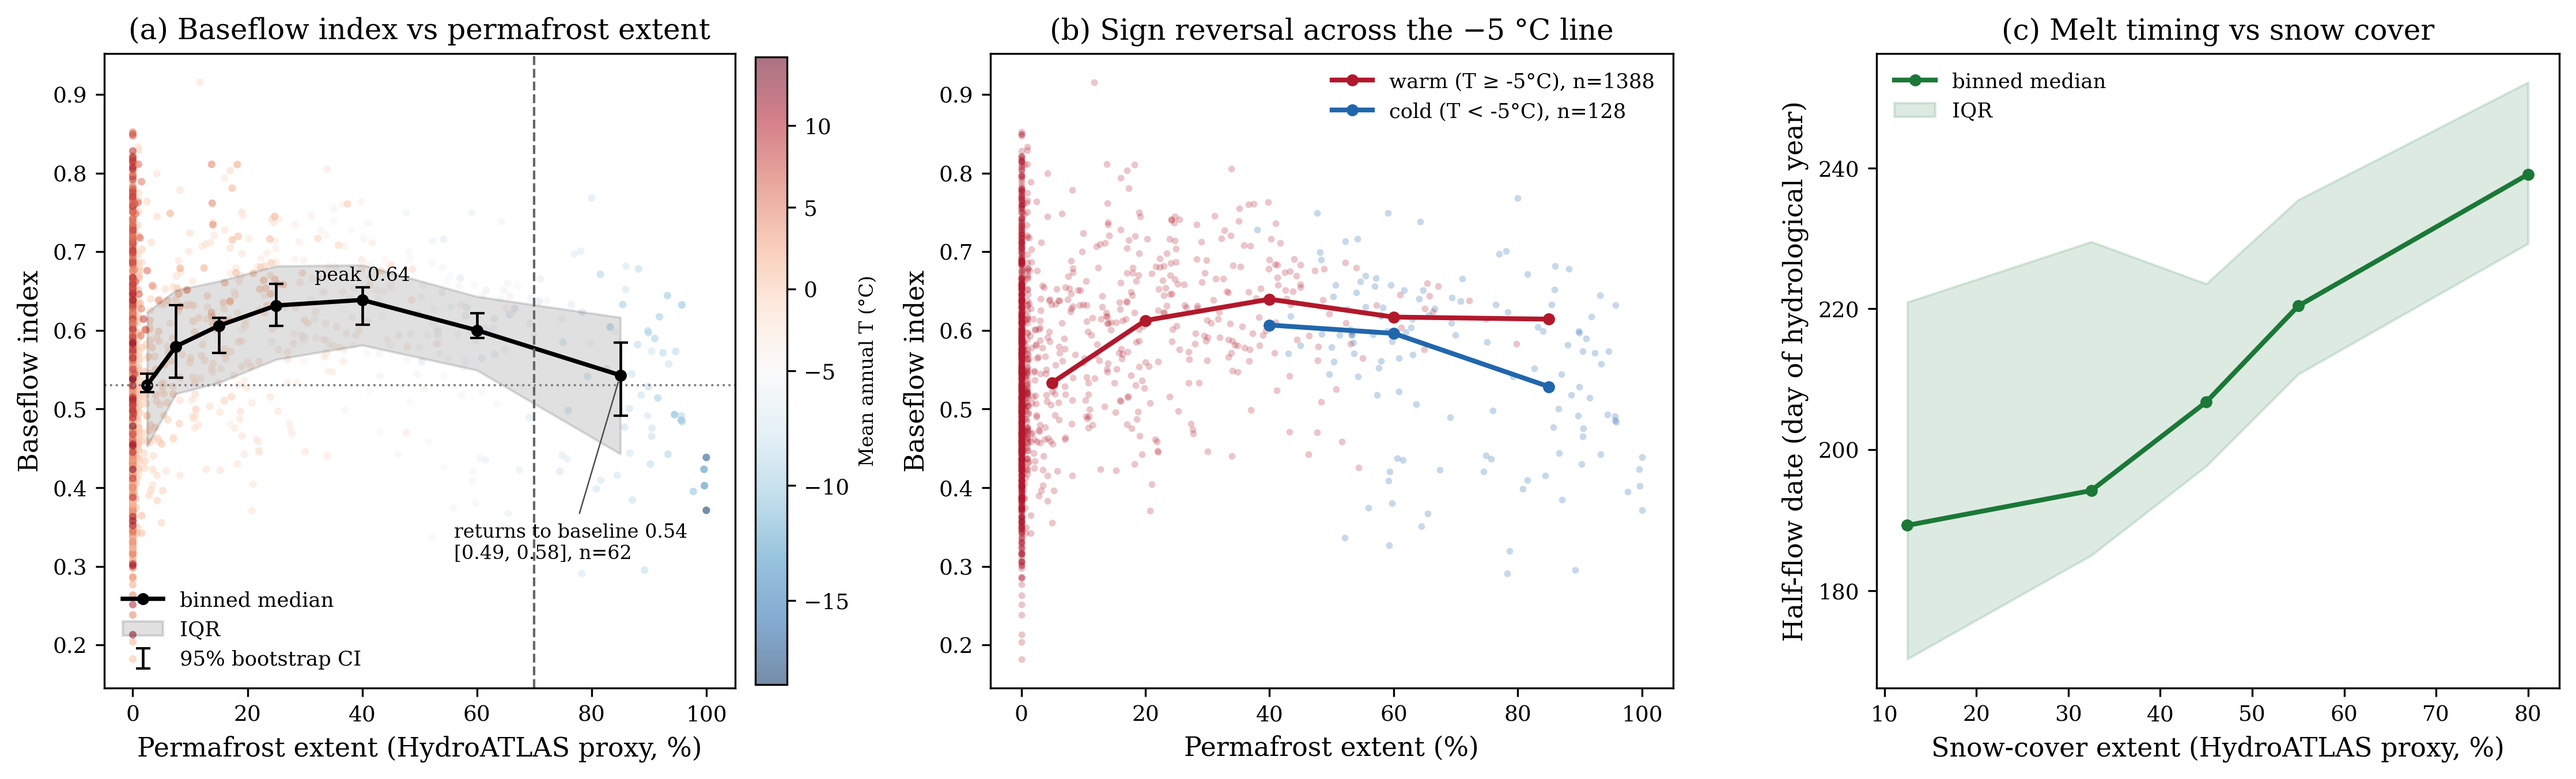
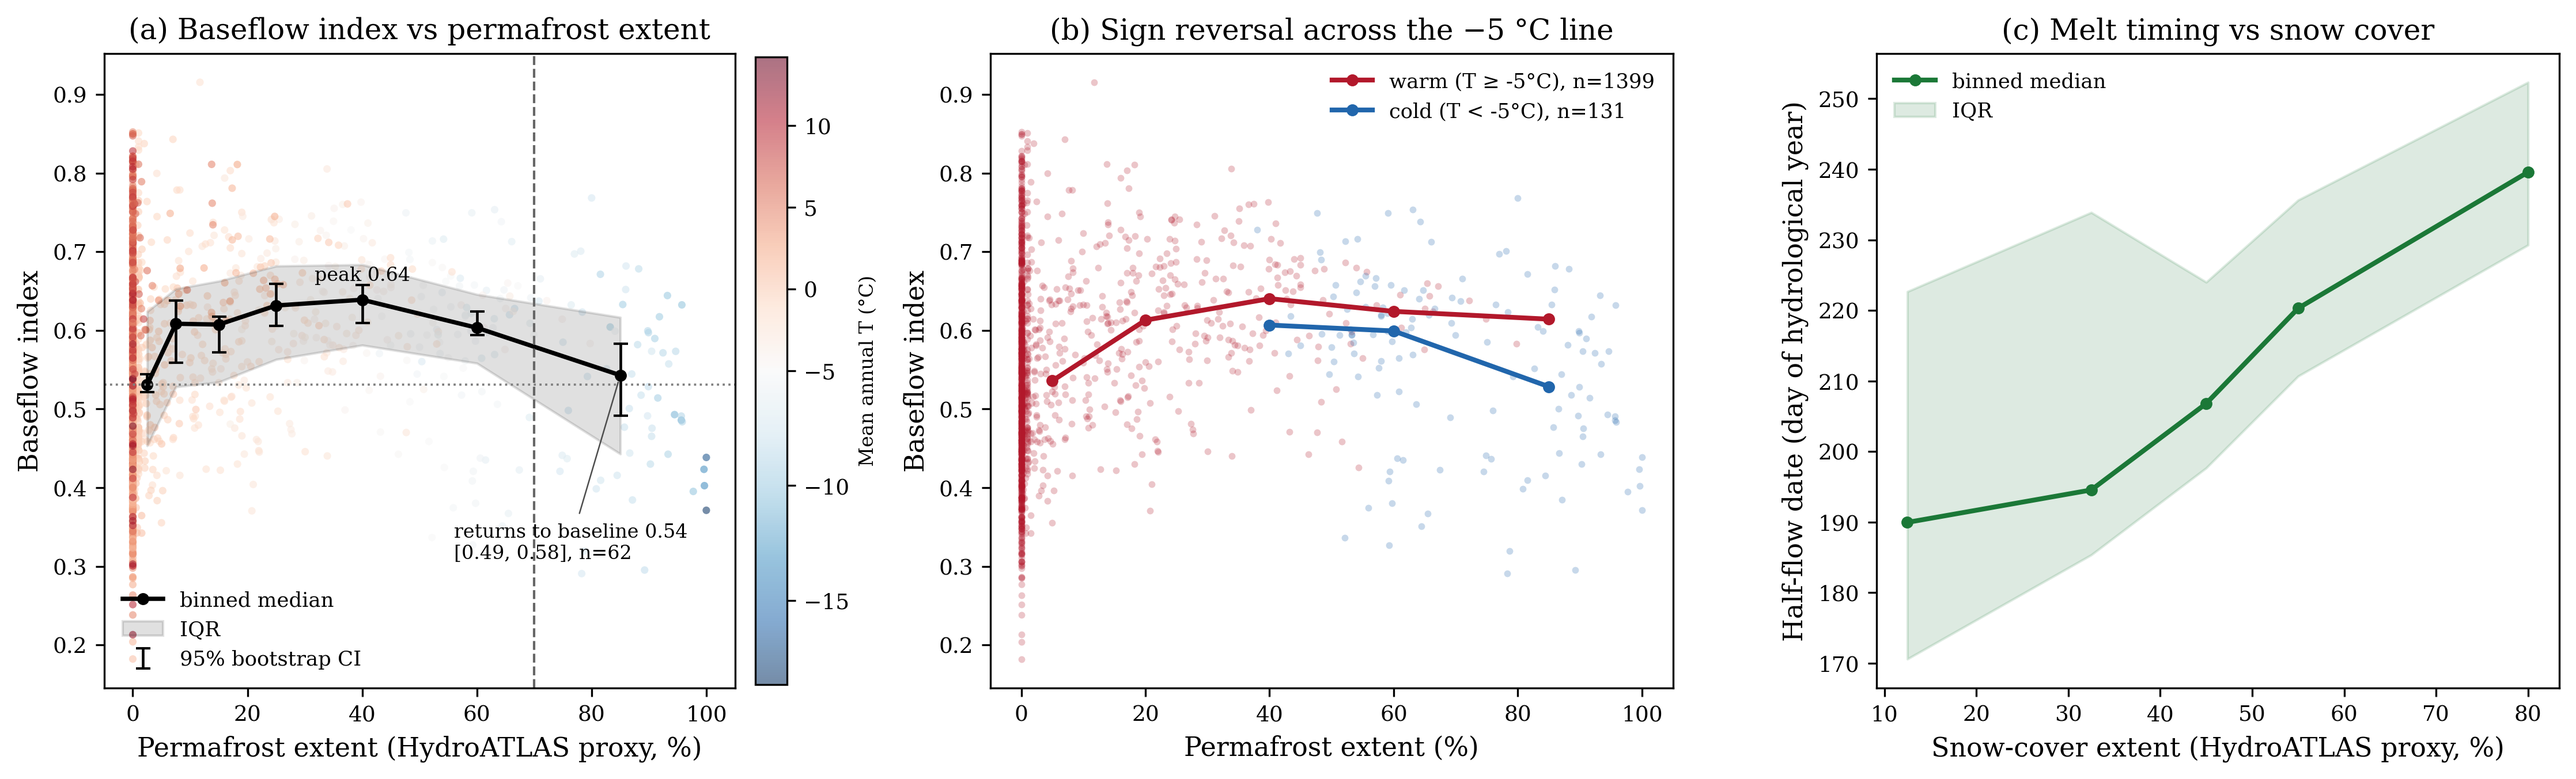
feat(quality): ice-period constant runs, worse-grade tie-break, specific-discharge anomaly flag
- anomaly_detection: constant_value skips runs ≥ 80 % inside Nov–Apr (Roshydromet
  under-ice convention); regression test tests/test_ice_constant_runs.py
- quality_grader: mode ties resolve to the worse grade; unreachable B cap removed
- create_year_grades: overall grade read from the grading output, not re-derived
- package_dataset: per-gauge specific_discharge_anomaly in discharge.nc
  (median discharge_mm > 20 mm/d); forcing attrs point to Sect. 6.3
- verify_macros: locks for the anomaly flag, its signature overlap, blank
  interior years, winter-gap counts and per-grade shares, mean/median area;
  kv() coerces numpy bools so tolerance checks can actually fail
- Regraded release: A 936 / B 807 / C 130 / D 178 / F 14; docs updated;
  cold-region provenance CSVs and Figs 2/7 regenerated; manuscript e9ded06

Claude-Session: https://claude.ai/code/session_014DevrVqKDBa378SqMM5r8k

diff --git a/scripts/verify_macros.py b/scripts/verify_macros.py
@@ -64,6 +64,7 @@ _FAILURES: list[str] = []
 
 def kv(label: str, paper: str, actual: str, match: bool | None = None) -> None:
     """Print a labelled paper-versus-data comparison row; record drifts for the exit code."""
+    match = None if match is None else bool(match)  # numpy bools would dodge the `is False` test
     mark = "OK " if match else ("DRIFT" if match is False else "  ? ")
     print(f"[{mark}] {label:40s}  paper={paper:25s}  actual={actual}")
     if match is False:
@@ -162,6 +163,35 @@ def check_coldregion_macros(macros: dict[str, str]) -> None:
         )
 
 
+def check_winter_gap_macros(
+    macros: dict[str, str], gauge_summary: pd.DataFrame, gap: pd.Series, severe: pd.Series
+) -> None:
+    """Lock the Sect. 4.1.1 winter-gap counts and their per-grade shares."""
+    check_macro(macros, "nwintergap", float(gap.sum()), "{:.0f}")
+    check_macro(macros, "nwintergapsevere", float(severe.sum()), "{:.0f}")
+    grade_of = gauge_summary.set_index(gauge_summary["gauge_id"].astype(str))["overall_grade"]
+    gap_grades = grade_of.reindex(gap.index[gap]).value_counts()
+    for g in ["A", "B", "C", "D", "F"]:
+        share = 100.0 * gap_grades.get(g, 0) / (grade_of == g).sum()
+        check_macro(macros, f"wintergappct{g}", share, "{:.0f}")
+
+
+def blank_interior_years(year_grades: pd.DataFrame) -> tuple[int, int]:
+    """Count unassessed hydro-years between the first and last graded year of each gauge."""
+    grid = year_grades.set_index(year_grades.columns[0]).notna().to_numpy()
+    n_blank = 0
+    n_gauges = 0
+    for mask in grid:
+        idx = np.flatnonzero(mask)
+        if len(idx) == 0:
+            continue
+        inner = ~mask[idx[0] : idx[-1] + 1]
+        if inner.any():
+            n_blank += int(inner.sum())
+            n_gauges += 1
+    return n_blank, n_gauges
+
+
 def check_discharge_fill_macros(macros: dict[str, str]) -> None:
     """Lock the discharge gap-fill macros against quality_flag==1 in discharge.nc."""
     section("DISCHARGE GAP-FILL (quality_flag in camels_ru_discharge.nc)")
@@ -218,7 +248,15 @@ def main() -> None:
         q_coord = "gauge_id" if "gauge_id" in qds.coords else "gauge"
         q_ids = qds[q_coord].values.astype(str)
         q_obs_days = pd.Series(q_present.sum(dim="time").values, index=q_ids)
+        q_anomaly_ids = set(q_ids[qds["specific_discharge_anomaly"].values == 1])
+        n_q_anomaly = len(q_anomaly_ids)
+        q_months = pd.DatetimeIndex(qds["time"].values).month
+        q_summer = q_present.values[:, q_months.isin([6, 7, 8, 9])].mean(axis=1)
+        q_winter = q_present.values[:, q_months.isin([12, 1, 2, 3])].mean(axis=1)
     n_ungraded = n_with_data - n_graded
+    # Winter-gap gauges (Sect. 4.1.1): summer coverage > 80 % but under half of Dec-Mar days
+    winter_gap = pd.Series((q_summer > 0.8) & (q_winter < 0.5), index=q_ids)
+    winter_gap_severe = winter_gap & pd.Series(q_winter < 0.2, index=q_ids)
 
     with xr.open_dataset(RELEASE / "camels_ru_water_level.nc") as wds:
         wl_has_data = (~np.isnan(wds["water_level_cm"])).any(dim="time")
@@ -259,6 +297,12 @@ def main() -> None:
     )
     check_macro(macros, "ngraded", float(n_graded), "{:.0f}")
     check_macro(macros, "nungraded", float(n_ungraded), "{:.0f}")
+    check_macro(macros, "nqanomalygauges", float(n_q_anomaly), "{:.0f}")
+    sig_anomaly_ids = set(sigs.loc[sigs["is_anomalous"].astype(bool), "gauge_id"].astype(str))
+    check_macro(macros, "nqanomalyinsig", float(len(q_anomaly_ids & sig_anomaly_ids)), "{:.0f}")
+    n_blank, n_blank_gauges = blank_interior_years(year_grades)
+    check_macro(macros, "nblankyears", float(n_blank), "{:.0f}")
+    check_macro(macros, "nblankyeargauges", float(n_blank_gauges), "{:.0f}")
     # year_grades.csv must list exactly the graded gauges of gauge_summary.csv.
     check_macro(macros, "ngraded", float(n_year_grades), "{:.0f}")
 
@@ -338,6 +382,7 @@ def main() -> None:
         check_macro(macros, f"ngrade{g}", float((gauge_summary["overall_grade"] == g).sum()), "{:.0f}")
     n_decent = int(gauge_summary["overall_grade"].isin(["A", "B", "C"]).sum())
     check_macro(macros, "decentpct", 100.0 * n_decent / n_with_data, "{:.0f}")
+    check_winter_gap_macros(macros, gauge_summary, winter_gap, winter_gap_severe)
 
     section("CATCHMENT AREA STATISTICS (boundaries.gpkg area_km2)")
     areas = boundaries["area_km2"].dropna()
@@ -348,8 +393,8 @@ def main() -> None:
         f"{areas.max():,.0f}",
         match=abs(areas.max() - 2_670_000) < 500,
     )
-    kv("meanarea", "78,217", f"{areas.mean():,.0f}", match=abs(areas.mean() - 78217) < 5)
-    kv("medianarea", "2,817", f"{areas.median():,.0f}", match=abs(areas.median() - 2817) < 5)
+    check_macro(parse_macros(), "meanarea", float(areas.mean()), "{:.0f}")
+    check_macro(parse_macros(), "medianarea", float(areas.median()), "{:.0f}")
     analysis_areas = boundaries.loc[
         boundaries["gauge_id"].astype(str).str.len() != 7, "area_km2"
     ].dropna()

diff --git a/scripts/package_dataset.py b/scripts/package_dataset.py
@@ -17,6 +17,7 @@ from __future__ import annotations
 import json
 from pathlib import Path
 import shutil
+import warnings
 
 import geopandas as gpd
 import numpy as np
@@ -88,6 +89,19 @@ def package_boundaries() -> None:
     ws = ws[[c for c in keep_cols if c in ws.columns]]
     ws.to_file(dst, driver="GPKG")
     print(f"  {len(ws)} catchments -> {dst.name}")
+
+
+ANOMALY_MM_PER_DAY = 20.0  # same threshold as is_anomalous in the signature file
+
+
+def _specific_discharge_anomaly(q_mm: np.ndarray) -> np.ndarray:
+    """Per-gauge flag: 1 if the median runoff depth exceeds ANOMALY_MM_PER_DAY, -1 if no record."""
+    with warnings.catch_warnings():
+        warnings.simplefilter("ignore", RuntimeWarning)  # all-NaN rows
+        median = np.nanmedian(q_mm, axis=1)
+    flag = np.where(median > ANOMALY_MM_PER_DAY, 1, 0).astype(np.int8)
+    flag[np.isnan(median)] = -1
+    return flag
 
 
 def _discharge_quality_flags(present: np.ndarray, filled: np.ndarray) -> np.ndarray:
@@ -203,6 +217,8 @@ def package_discharge() -> None:
     filled[edge] = False
     print(f"  reverted {int(edge.sum()):,} gap-filled gauge-days that did not bridge observed days")
     q_flag = _discharge_quality_flags(present, filled)
+    anomaly = _specific_discharge_anomaly(q_mm)
+    print(f"  {int((anomaly == 1).sum())} gauges flagged specific_discharge_anomaly")
 
     ds = xr.Dataset(
         {
@@ -225,6 +241,23 @@ def package_discharge() -> None:
                     "standard_name": "water_volume_transport_in_river_channel",
                     "units": "m3 s-1",
                     "source": "AIS GMVO / Roshydromet",
+                },
+            ),
+            "specific_discharge_anomaly": (
+                ["gauge_id"],
+                anomaly,
+                {
+                    "long_name": "Implausible specific discharge flag",
+                    "flag_values": np.array([-1, 0, 1], dtype=np.int8),
+                    "flag_meanings": "no_discharge_record plausible implausible",
+                    "description": (
+                        f"1 = median discharge_mm exceeds {ANOMALY_MM_PER_DAY:g} mm d-1 over the "
+                        "record, i.e. the reported volume cannot come from the delineated area: "
+                        "delta distributaries, small experimental creeks whose source values "
+                        "appear to be in litres per second, or an underestimated catchment. "
+                        "Exclude these gauges from specific-discharge work; discharge_m3s is "
+                        "released unchanged. 0 = plausible. -1 = no discharge record."
+                    ),
                 },
             ),
             "quality_flag": (
@@ -266,6 +299,7 @@ def package_discharge() -> None:
             "discharge_mm": {"dtype": "float32", "zlib": True, "complevel": 4},
             "discharge_m3s": {"dtype": "float32", "zlib": True, "complevel": 4},
             "quality_flag": {"dtype": "int8", "zlib": True, "complevel": 4},
+            "specific_discharge_anomaly": {"dtype": "int8"},
         },
     )
     n_with_data = int((q_flag != 3).any(axis=1).sum())

diff --git a/src/quality/anomaly_detection.py b/src/quality/anomaly_detection.py
@@ -15,6 +15,15 @@ from .quality_flags import QualityFlag
 logger = logging.getLogger(__name__)
 
 
+ICE_MONTHS: tuple[int, ...] = (11, 12, 1, 2, 3, 4)
+
+
+def _ice_period_fraction(start: pd.Timestamp, end: pd.Timestamp, ice_months: tuple[int, ...]) -> float:
+    """Fraction of calendar days between ``start`` and ``end`` that fall in the ice period."""
+    days = pd.date_range(start, end, freq="D")
+    return float(days.month.isin(ice_months).mean()) if len(days) else 0.0
+
+
 def detect_constant_periods(
     discharge: pd.Series,
     min_days: int = 30,
@@ -274,6 +283,8 @@ def detect_anomalies_all_years(  # noqa: C901
     spike_sigma_threshold: float = 8.0,  # Raised - flood peaks can be extreme
     variance_alpha: float = 0.01,  # Stricter - only flag extreme variance anomalies
     check_variance: bool = False,  # Disabled by default - variance varies naturally
+    ice_months: tuple[int, ...] = ICE_MONTHS,
+    ice_run_fraction: float = 0.8,
 ) -> dict[int, list[QualityFlag]]:
     """Detect statistical anomalies for all years in the time series.
 
@@ -284,6 +295,9 @@ def detect_anomalies_all_years(  # noqa: C901
         spike_sigma_threshold: Sigma threshold for spike detection.
         variance_alpha: Alpha level for variance F-test.
         check_variance: Whether to run inter-annual variance check.
+        ice_months: Calendar months of the ice period (November to April).
+        ice_run_fraction: Constant runs with at least this fraction of their days in
+            ``ice_months`` are not flagged (under-ice reporting convention).
 
     Returns:
         Dictionary mapping year to list of quality flags.
@@ -314,6 +328,11 @@ def detect_anomalies_all_years(  # noqa: C901
     flags_by_year: dict[int, list[QualityFlag]] = {year: [] for year in years}
 
     for start, end, _duration, _value in constant_periods:
+        if _ice_period_fraction(start, end, ice_months) >= ice_run_fraction:
+            # Roshydromet computes under-ice discharge from sparse measurements and an
+            # ice coefficient, so piecewise-constant winter series are the reporting
+            # convention, not a stuck sensor.
+            continue
         # Determine which year(s) this affects
         for year in years:
             if hydro_year_start_month > 1:

diff --git a/scripts/create_year_grades.py b/scripts/create_year_grades.py
@@ -66,7 +66,12 @@ def extract_year_grades(compound_dir: Path) -> tuple[pd.DataFrame, pd.DataFrame]
     # Extract year grades from each gauge
     rows: list[dict[str, str]] = []
 
+    # The grader's overall grade is the by_grade/ folder name: a single source of truth,
+    # so the aggregation rules (strict A, mode with ties to the worse grade, caps) are
+    # not re-implemented here.
+    folder_grade: dict[str, str] = {}
     for gauge_id, csv_path in tqdm(all_files, desc="Extracting year grades"):
+        folder_grade[gauge_id] = csv_path.parent.name
         df = pd.read_csv(csv_path, index_col="date", parse_dates=True)
 
         if "grade" not in df.columns:
@@ -134,31 +139,9 @@ def extract_year_grades(compound_dir: Path) -> tuple[pd.DataFrame, pd.DataFrame]
         n_d = grades.count("D")
         n_f = grades.count("F")
 
-        # Strict Grade A: every year must be A
-        if all(g == "A" for g in grades):
-            overall = "A"
-        else:
-            # Mode of non-F grades, capped at B
-            usable = [g for g in grades if g != "F"]
-            if usable:
-                from collections import Counter
-
-                freq = Counter(usable)
-                mode_grade = freq.most_common(1)[0][0]
-                overall = mode_grade if mode_grade != "A" else "B"
-            else:
-                overall = "F"
-
-            # Apply coverage caps
-            usable_frac = len([g for g in grades if g in ("A", "B", "C")]) / n_total
-            fail_frac = n_f / n_total
-
-            if usable_frac < 0.5:
-                overall = max(overall, "D", key=lambda g: GRADE_ORDER.get(g, 99))
-            elif usable_frac < 0.7:
-                overall = max(overall, "C", key=lambda g: GRADE_ORDER.get(g, 99))
-            elif fail_frac > 0.3:
-                overall = max(overall, "B", key=lambda g: GRADE_ORDER.get(g, 99))
+        overall = folder_grade[gauge_id]
+        if overall not in GRADE_ORDER:
+            raise ValueError(f"gauge {gauge_id}: by_grade folder {overall!r} is not a grade")
 
         worst = max(grades, key=lambda g: GRADE_ORDER.get(g, 99))
 

diff --git a/src/quality/quality_grader.py b/src/quality/quality_grader.py
@@ -542,7 +542,9 @@ def get_gauge_summary(  # noqa: C901
         grade_freq: dict[QualityGrade, int] = {}
         for g in usable_grades:
             grade_freq[g] = grade_freq.get(g, 0) + 1
-        overall_grade = max(grade_freq.keys(), key=lambda g: grade_freq[g])
+        # Ties resolve to the worse grade (higher index in the A..F enum).
+        order = list(QualityGrade)
+        overall_grade = max(grade_freq.keys(), key=lambda g: (grade_freq[g], order.index(g)))
         # Cannot be A (handled above), so cap at B minimum
         if overall_grade == QualityGrade.A:
             overall_grade = QualityGrade.B
@@ -551,7 +553,6 @@ def get_gauge_summary(  # noqa: C901
     # A gauge with few usable years shouldn't get top grades regardless
     # of how clean those few years are.
     usable_fraction = n_years_usable / n_years_total if n_years_total > 0 else 0
-    fail_fraction = n_fail / n_years_total if n_years_total > 0 else 0
 
     if usable_fraction < 0.5:
         # Less than half usable → cap at D
@@ -559,9 +560,6 @@ def get_gauge_summary(  # noqa: C901
     elif usable_fraction < 0.7:
         # 50-70% usable → cap at C
         overall_grade = max(overall_grade, QualityGrade.C, key=lambda g: list(QualityGrade).index(g))
-    elif fail_fraction > 0.3:
-        # More than 30% F years → cap at B
-        overall_grade = max(overall_grade, QualityGrade.B, key=lambda g: list(QualityGrade).index(g))
 
     # Determine recommendation and tier
     if overall_grade in [QualityGrade.A, QualityGrade.B] and usable_fraction >= 0.8:

diff --git a/tests/test_ice_constant_runs.py b/tests/test_ice_constant_runs.py
@@ -1,0 +1,35 @@
+"""Constant runs inside the ice period must not raise constant_value; open-water runs must."""
+
+from pathlib import Path
+import sys
+
+import numpy as np
+import pandas as pd
+
+sys.path.insert(0, str(Path(__file__).resolve().parents[1] / "src"))
+from quality.anomaly_detection import detect_anomalies_all_years  # noqa: E402
+from quality.quality_flags import QualityFlag  # noqa: E402
+
+
+def _series(constant_months: tuple[int, ...]) -> pd.Series:
+    idx = pd.date_range("2010-10-01", "2011-09-30", freq="D")
+    rng = np.random.default_rng(0)
+    q = pd.Series(10 + rng.normal(0, 0.5, len(idx)), index=idx)
+    q[idx.month.isin(constant_months)] = 3.0
+    return q
+
+
+def test_winter_constant_run_is_not_flagged() -> None:
+    flags = detect_anomalies_all_years(_series((12, 1, 2)))
+    assert QualityFlag.CONSTANT_VALUE not in flags.get(2011, [])
+
+
+def test_summer_constant_run_is_flagged() -> None:
+    flags = detect_anomalies_all_years(_series((6, 7)))
+    assert QualityFlag.CONSTANT_VALUE in flags.get(2011, [])
+
+
+if __name__ == "__main__":
+    test_winter_constant_run_is_not_flagged()
+    test_summer_constant_run_is_flagged()
+    print("ok")

diff --git a/README.md b/README.md
@@ -13,7 +13,7 @@ A CAMELS-standard hydrological dataset for the Russian Federation, covering 3,35
 | Component | Coverage |
 |-----------|----------|
 | Catchments | 3,353 delineated watersheds (manually verified, mean areal error 5.1%) |
-| Discharge | 2,170 gauges, daily, 2008–2023 (840 Grade A, 86% decent quality) |
+| Discharge | 2,170 gauges, daily, 2008–2023 (936 Grade A, 86% decent quality) |
 | Water level | 2,989 gauges, daily, 2008–2023 |
 | Forcing | ERA5-Land (T) + GLEAM4 (PET) + MSWEP v2.8 (P), basin-averaged |
 | Attributes | 288 HydroATLAS variables per catchment (22 primary subset) |

diff --git a/AGENTS_REFERENCE.md b/AGENTS_REFERENCE.md
@@ -84,7 +84,7 @@ and Cursor. `CLAUDE_REFERENCE.md` imports this file (`@AGENTS_REFERENCE.md`).
 | Metric | Value |
 |--------|-------|
 | Catchments | 3,353 (manually verified) |
-| Discharge gauges | 2,170 (840 Grade A, ~86% decent quality) |
+| Discharge gauges | 2,170 (936 Grade A, ~86% decent quality) |
 | Water level gauges | 2,989 |
 | Temporal coverage | 2008–2023 (daily) |
 | Mean areal error | 5.1% (trimmed mean over \|err\| ≤ 100%; median 1.4%; n=3,011 with Roshydromet reference) |
